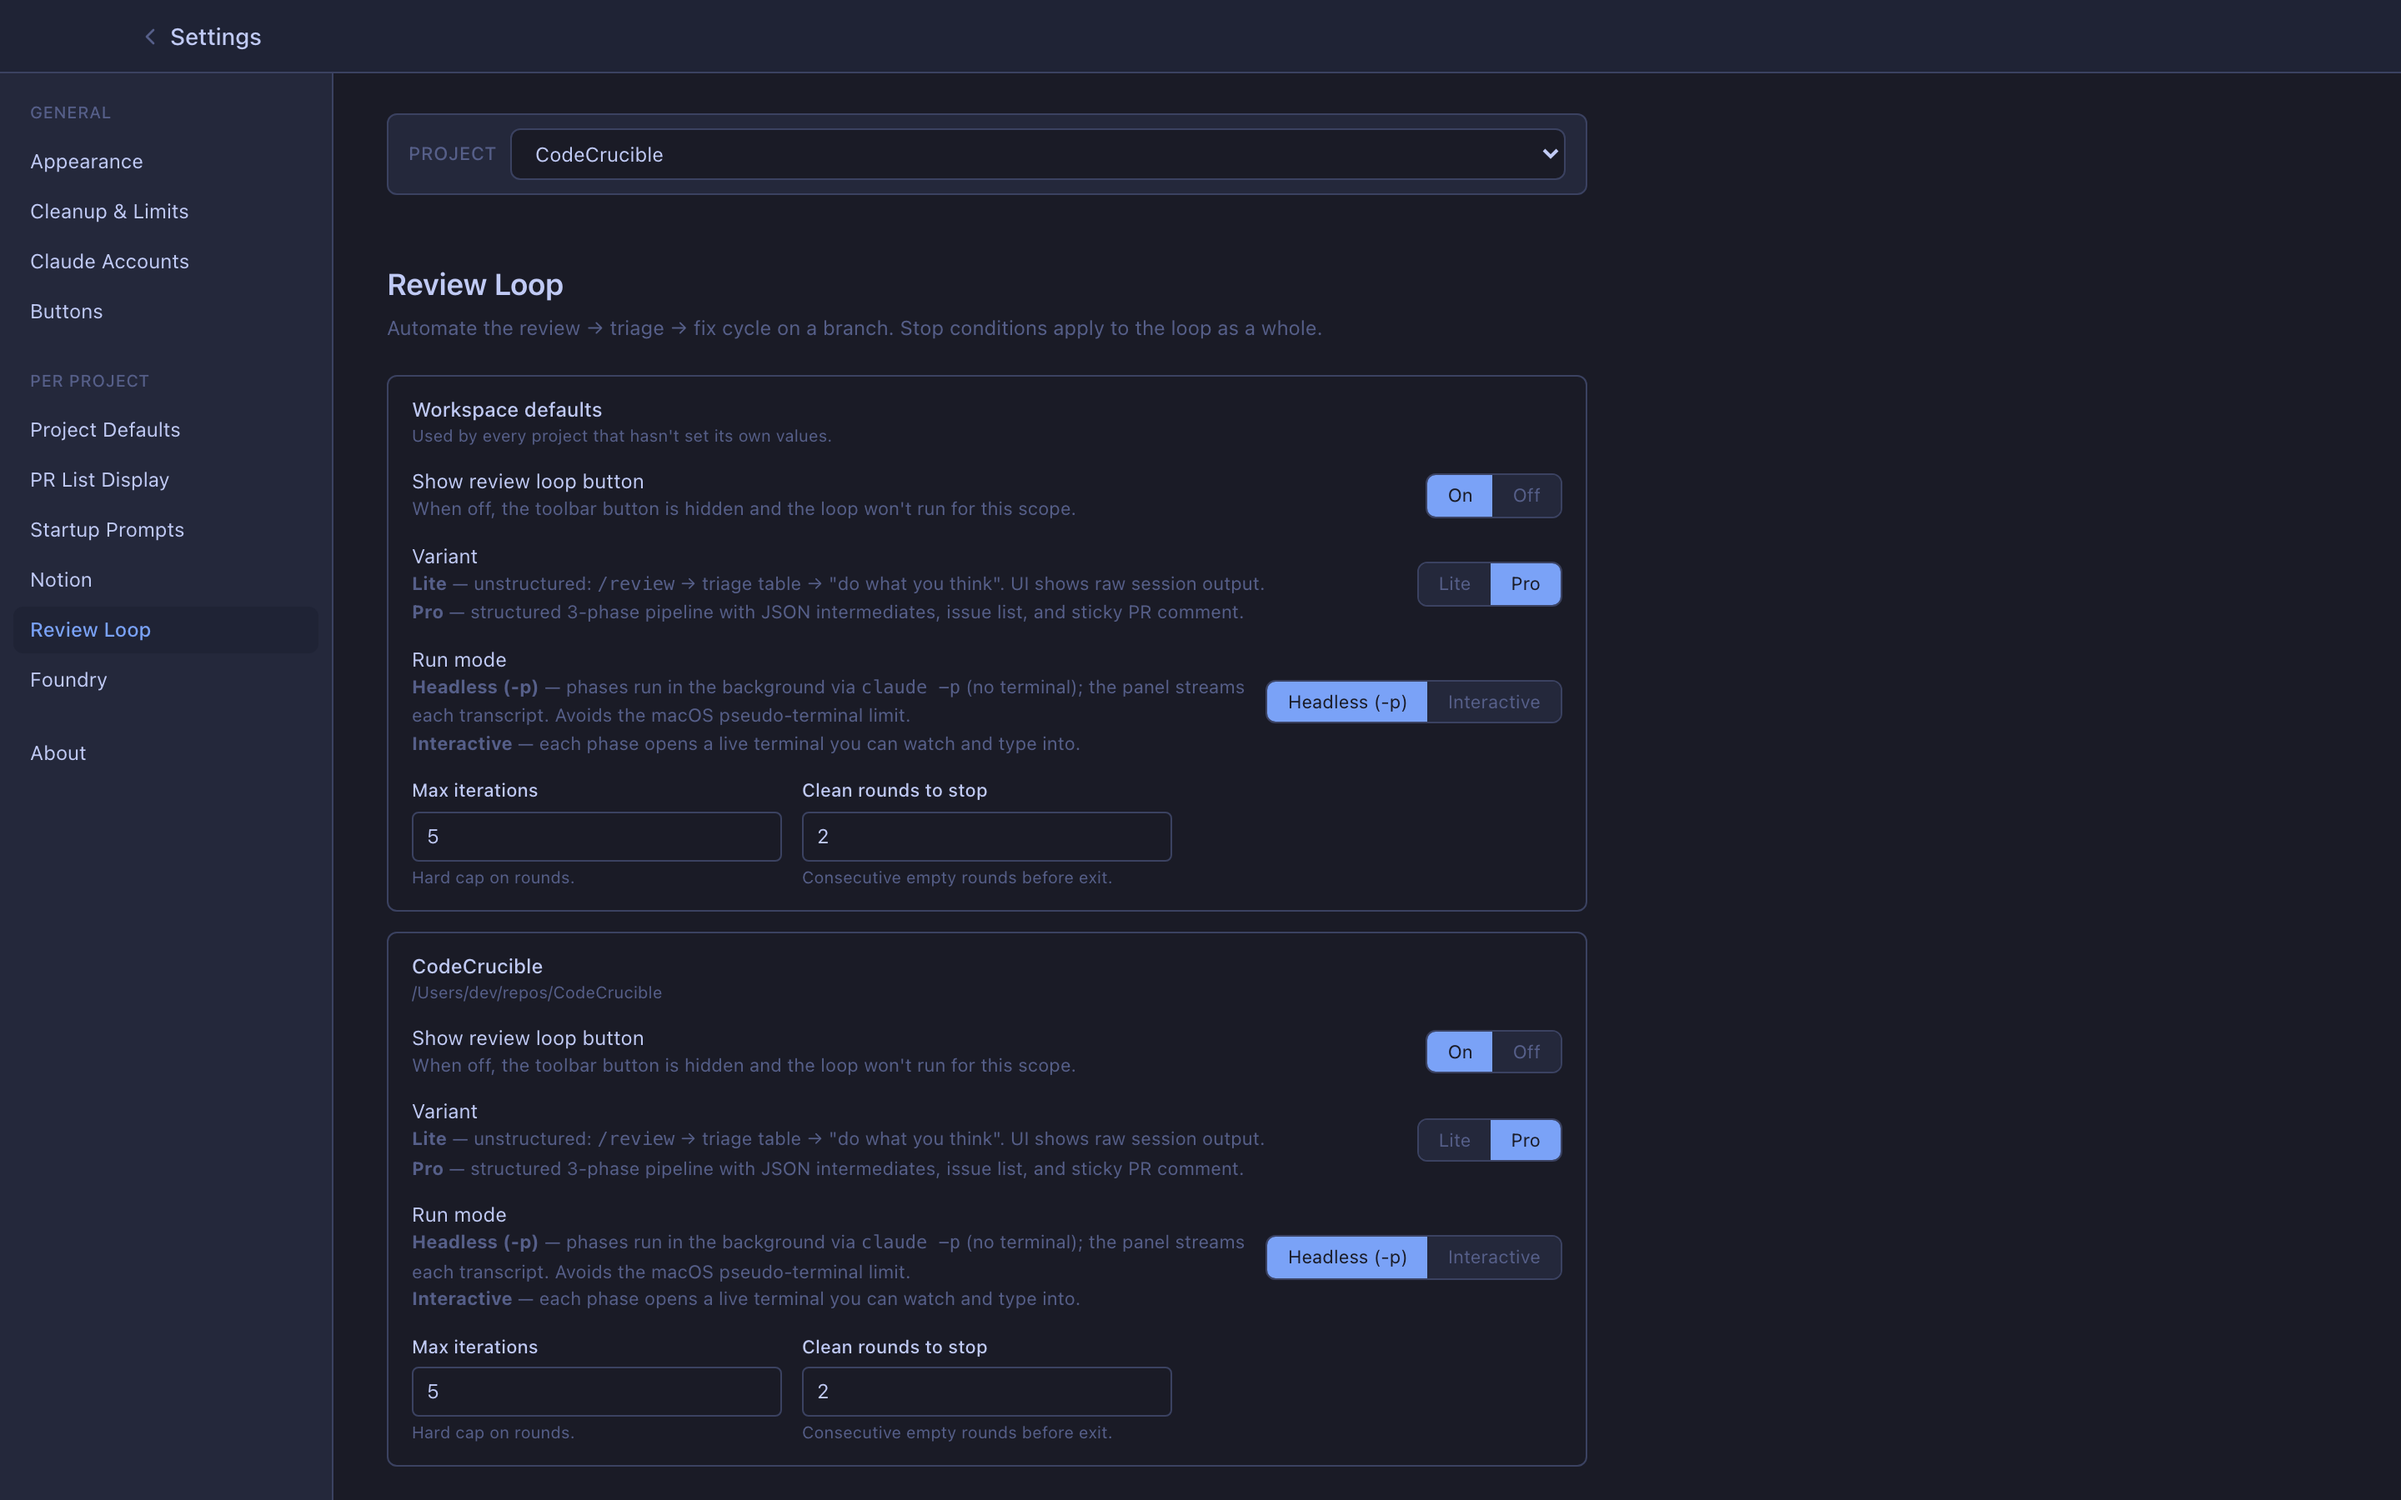
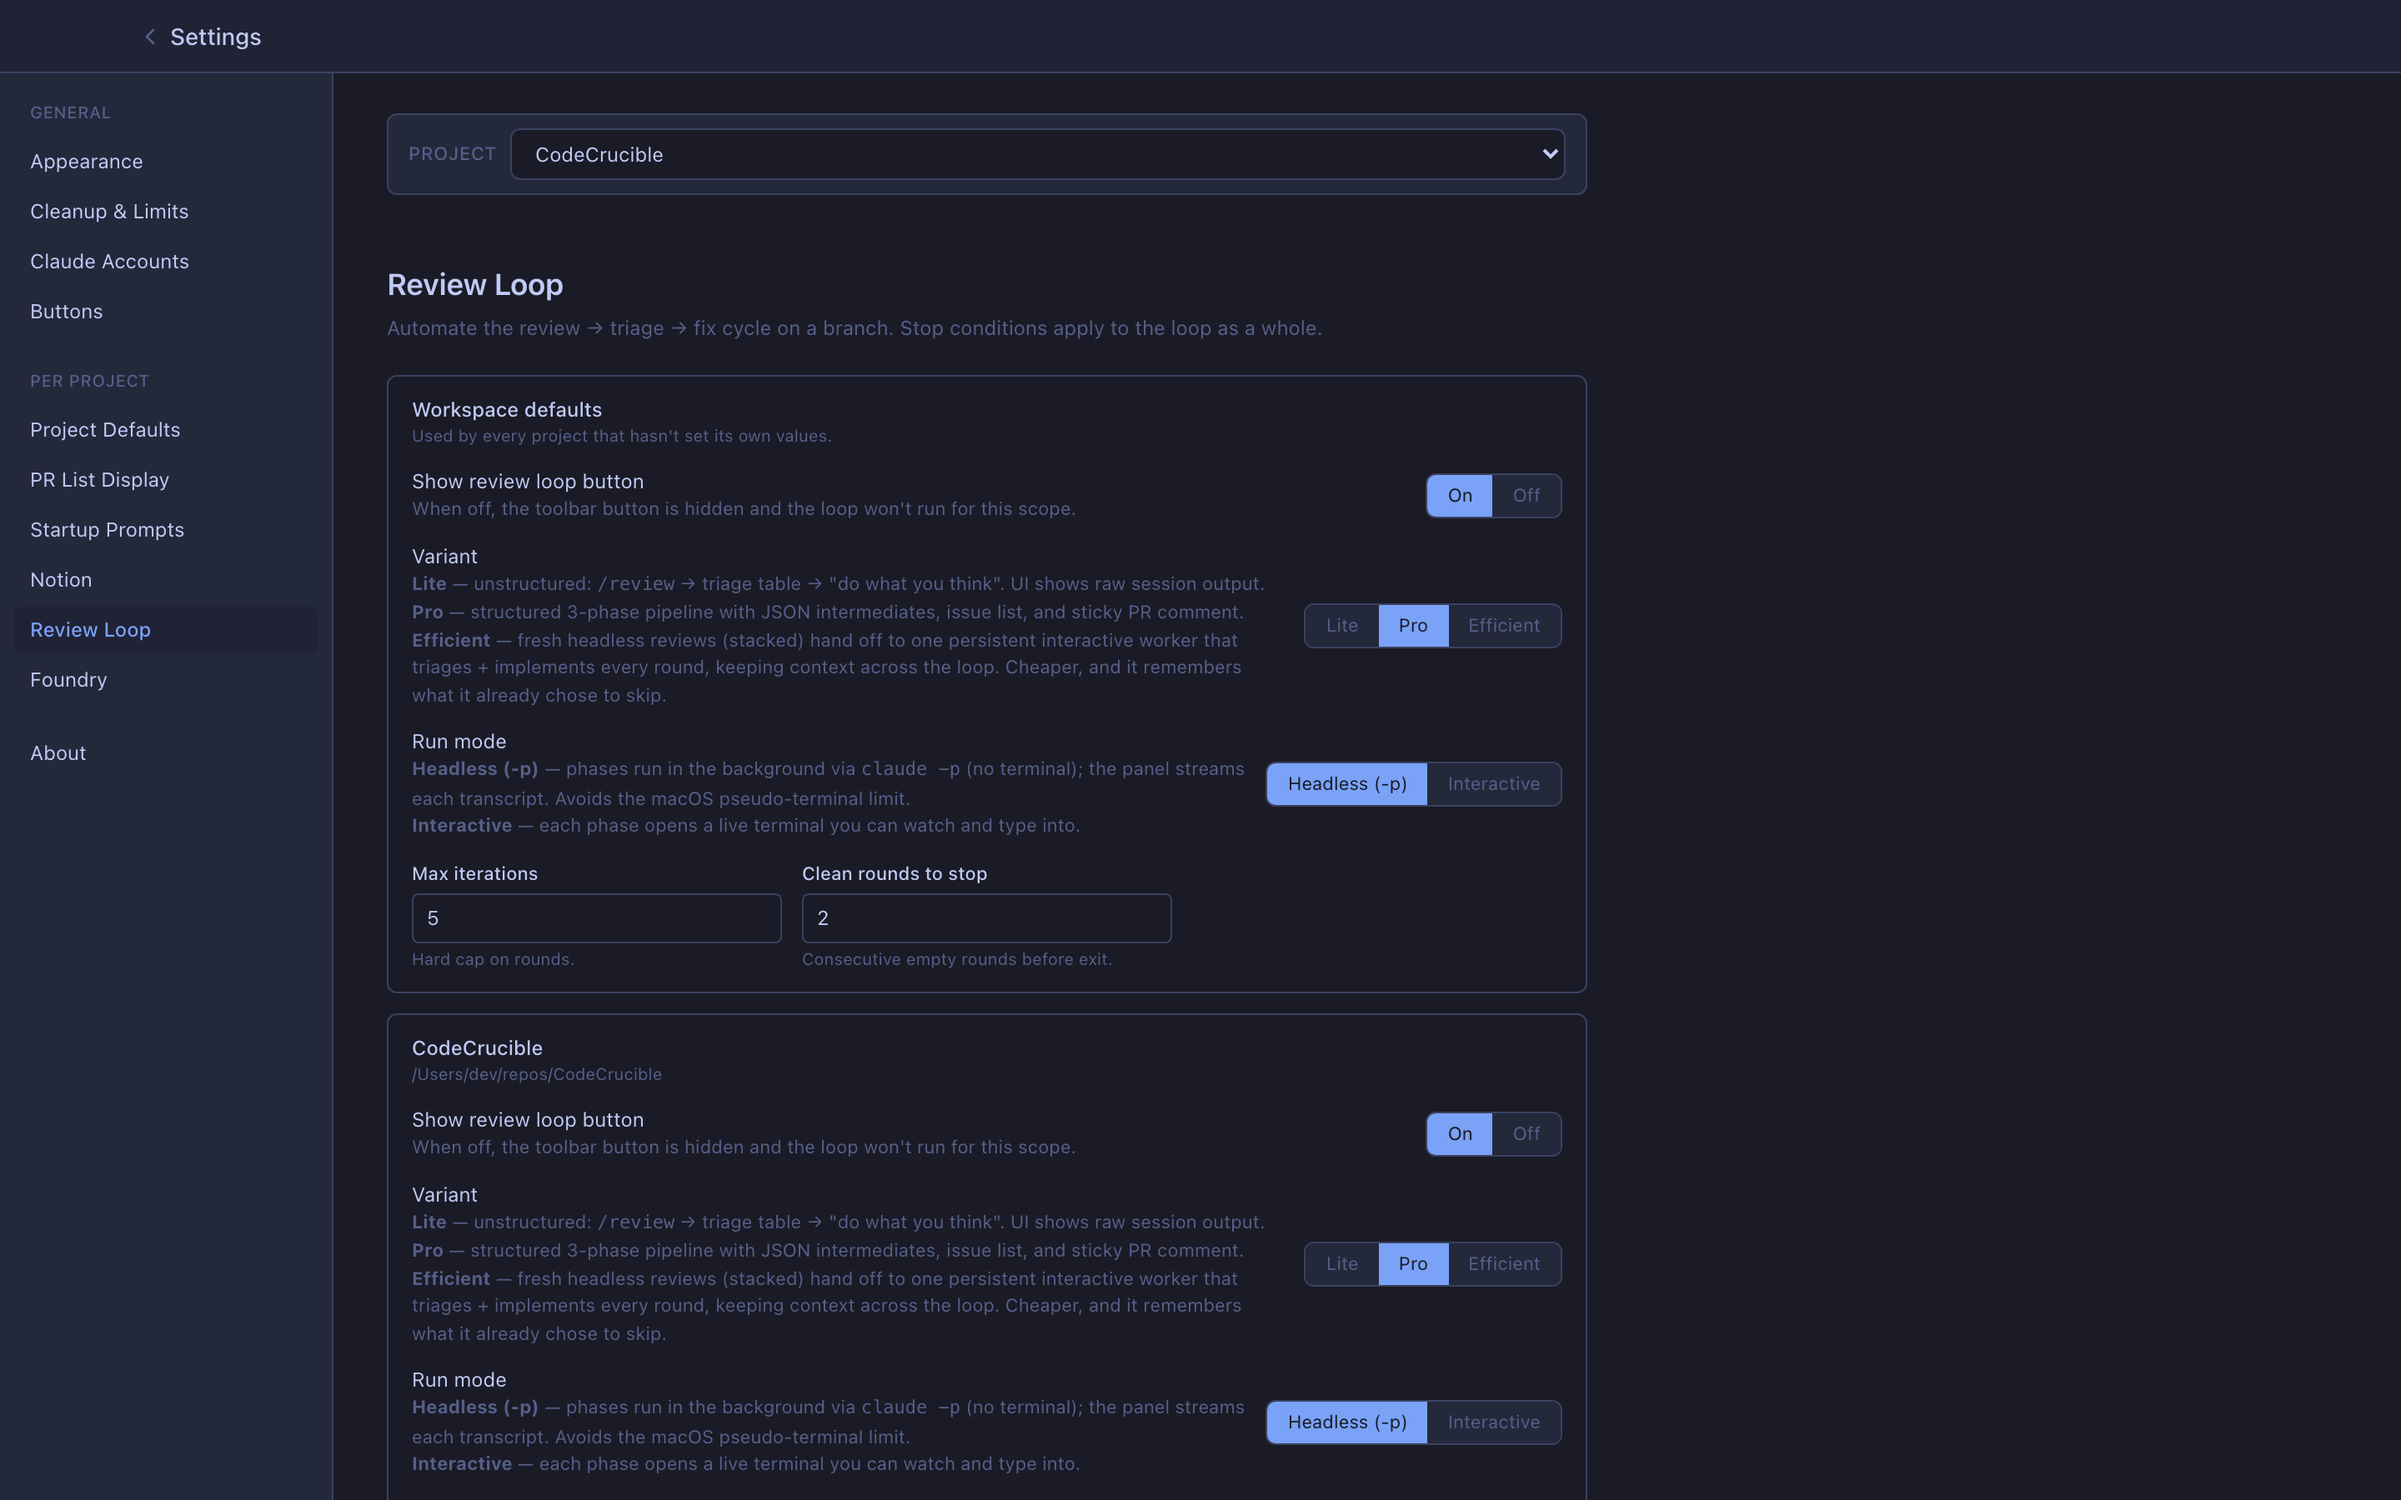
docs(review-loop): document + screenshot the Efficient variant
- README: new Efficient variant section, feature bullet, and two-panel
  screenshot; settings screenshot refreshed to show the Lite/Pro/Efficient
  variant toggle.
- Storybook: ReviewLoopEfficient full-app story + mockReviewLoopEfficient
  (stacked fresh reviews on the left, persistent worker on the right) so the
  screenshot can be regenerated.
- capture-screenshots: add the review-loop-efficient target.

Changed region(s): [[0.1562, 0.3733, 0.6562, 0.9956], [0.5938, 0.6844, 0.6562, 0.7778]]

diff --git a/mock/mockData.ts b/mock/mockData.ts
@@ -965,3 +965,80 @@ export const mockReviewLoopHeadless: ReviewLoopState = {
   ],
 }
 
+/**
+ * Efficient variant: fresh headless reviews stacked on the left (one per round,
+ * clear context each time), a single persistent interactive worker on the right
+ * that triages + implements every round and keeps its context across the loop.
+ */
+export const mockReviewLoopEfficient: ReviewLoopState = {
+  sessionId: 'sess-1',
+  branch: 'session/add-pr-review',
+  baseBranch: 'main',
+  worktreePath: '/Users/dev/.codecrucible-worktrees/CodeCrucible/add-pr-review',
+  variant: 'efficient',
+  status: 'running',
+  currentPhase: 'triage',
+  iteration: 2,
+  startedAt: new Date(baseTime).toISOString(),
+  skippedIssues: [],
+  persistentTerminalId: 'term-review-loop-persistent',
+  persistentTabId: 'review-loop:persistent',
+  rounds: [
+    {
+      index: 1,
+      startedAt: new Date(baseTime + 1_000).toISOString(),
+      endedAt: new Date(baseTime + 92_000).toISOString(),
+      phase: 'idle',
+      phaseSlots: [
+        {
+          phase: 'review',
+          status: 'completed',
+          tabId: 'review-loop:r1:review',
+          transcript: [
+            '[13:00:01] ▶ session 9c2f started (claude-opus-4-8)',
+            '[13:00:03] Running /review on the PR diff…',
+            '[13:00:21] 🔧 Bash git diff main...session/add-pr-review',
+            '[13:00:34] Found 2 issues: a refresh/selection race and a missing await.',
+          ],
+        },
+        { phase: 'triage', status: 'completed', tabId: 'review-loop:persistent' },
+        { phase: 'fix', status: 'completed', tabId: 'review-loop:persistent' },
+      ],
+      log: [
+        '[2026-04-30T13:00:01Z] Running /review (round 1)…',
+        '[2026-04-30T13:00:34Z] Review complete — handed to the persistent worker.',
+        '[2026-04-30T13:01:32Z] Worker committed fixes for round 1.',
+      ],
+      rawIssues: [],
+      triaged: [],
+    },
+    {
+      index: 2,
+      startedAt: new Date(baseTime + 95_000).toISOString(),
+      phase: 'triage',
+      phaseSlots: [
+        {
+          phase: 'review',
+          status: 'completed',
+          tabId: 'review-loop:r2:review',
+          transcript: [
+            '[13:01:35] ▶ session b1e4 started (claude-opus-4-8)',
+            '[13:01:38] Running /review on the PR diff…',
+            '[13:02:01] 🔧 Bash git diff main...session/add-pr-review',
+            '[13:02:03] Found 1 issue: a listener leak on unmount.',
+          ],
+        },
+        { phase: 'triage', status: 'running', tabId: 'review-loop:persistent' },
+        { phase: 'fix', status: 'pending', tabId: 'review-loop:persistent' },
+      ],
+      log: [
+        '[2026-04-30T13:01:35Z] Running /review (round 2)…',
+        '[2026-04-30T13:02:03Z] Review complete — pasted into the live worker.',
+        '[2026-04-30T13:02:05Z] Worker triaging (remembers round 1 decisions)…',
+      ],
+      rawIssues: [],
+      triaged: [],
+    },
+  ],
+}
+

diff --git a/src/renderer/stories/FullApp.stories.tsx b/src/renderer/stories/FullApp.stories.tsx
@@ -4,7 +4,7 @@ import App from '../App'
 import { setupStoresForStory, resetStores } from './helpers/storeSetup'
 import { useNotificationStore } from '../stores/notificationStore'
 import type { SessionStatus } from '../../shared/types'
-import { mockReviewLoopRunning, mockReviewLoopCompleted, mockReviewLoopHeadless } from '@mock/mockData'
+import { mockReviewLoopRunning, mockReviewLoopCompleted, mockReviewLoopHeadless, mockReviewLoopEfficient } from '@mock/mockData'
 
 const meta: Meta<typeof App> = {
   title: 'App/Full Layout',
@@ -380,6 +380,18 @@ export const ReviewLoopHeadless: Story = {
       setupStoresForStory({
         activeWorkspaceTab: 'review-loop',
         reviewLoopState: mockReviewLoopHeadless,
+      })
+      return <Story />
+    },
+  ],
+}
+
+export const ReviewLoopEfficient: Story = {
+  decorators: [
+    (Story) => {
+      setupStoresForStory({
+        activeWorkspaceTab: 'review-loop',
+        reviewLoopState: mockReviewLoopEfficient,
       })
       return <Story />
     },

diff --git a/scripts/capture-screenshots.ts b/scripts/capture-screenshots.ts
@@ -179,6 +179,11 @@ const targets: ScreenshotTarget[] = [
     delay: 2000,
   },
   {
+    name: 'review-loop-efficient',
+    storyId: 'app-full-layout--review-loop-efficient',
+    delay: 2000,
+  },
+  {
     name: 'review-loop-settings',
     storyId: 'app-full-layout--review-loop-settings',
     delay: 2000,

diff --git a/README.md b/README.md
@@ -29,7 +29,7 @@
 - **Remote access** — Pair a second device's browser to your desktop instance over the LAN, or over a hosted end-to-end encrypted Cloudflare Worker relay that works through VPNs and hotel Wi-Fi. View projects, sessions, settings, and live agent terminals from anywhere (full mobile layout, PWA-installable on iOS)
 - **Custom buttons** — Configurable action buttons that run shell commands or Claude prompts with placement, scope, and shortcut options
 - **Session startup prompts** — Pre-configure per-project prompts (e.g. `/notion-ticket {{input}}`) that auto-run in a new session's agent terminal
-- **Review loop** — One-click review → triage → fix cycle on a branch. Runs headless in the background by default (`claude -p`, no terminal — the panel streams each transcript), or flip a per-project toggle to run it as three live Claude Code terminals you can watch and steer. Stop conditions (clean rounds, iteration cap) and a sticky PR comment for skipped findings
+- **Review loop** — One-click review → triage → fix cycle on a branch. Runs headless in the background by default (`claude -p`, no terminal — the panel streams each transcript), or flip a per-project toggle to run it as three live Claude Code terminals you can watch and steer. Pick a variant per project: **Lite**/**Pro** (three fresh sessions per round) or **Efficient** (fresh stacked reviews + one persistent worker that keeps context across rounds — cheaper). Stop conditions (clean rounds, iteration cap) and a sticky PR comment for skipped findings
 - **Foundry** — Run a whole Notion backlog on autopilot. An interactive foreman Claude plans dependencies; multiple worker sessions run in parallel; each pipeline goes implement → draft PR → review loop → ready. Human reviews code and tests; everything else is automated. See [docs/FOUNDRY.md](docs/FOUNDRY.md)
 - **Local PRs** — A staging stage between a draft branch and an open GitHub PR. Snapshot any session into a viewable, reviewable local PR (or let capture mode intercept the agent's `gh pr create`), then **Promote** it to a real PR. In local-PR mode Foundry builds a chained stack overnight that you publish in one click with **Create PRs** (open → optional local CI → fix-on-failure → ready, in order)
 - **Claude Web sessions** — Surface your own `claude/*` branches from Claude Code on the web in the sidebar; click to open them locally as worktrees
@@ -507,7 +507,10 @@ The Review Loop tab in the session workspace shows live progress: an overall sta
 </tr>
 <tr>
 <td><img src="docs/screenshots/review-loop-headless.png" alt="Headless run: each phase streams its claude -p transcript read-only, no terminal" /></td>
-<td><img src="docs/screenshots/review-loop-settings.png" alt="Workspace defaults and per-project overrides, including the headless/interactive run-mode toggle" /></td>
+<td><img src="docs/screenshots/review-loop-settings.png" alt="Workspace defaults and per-project overrides, including the variant and headless/interactive run-mode toggles" /></td>
+</tr>
+<tr>
+<td colspan="2"><img src="docs/screenshots/review-loop-efficient.png" alt="Efficient variant: stacked fresh reviews on the left, one persistent interactive worker on the right" /></td>
 </tr>
 </table>
 
